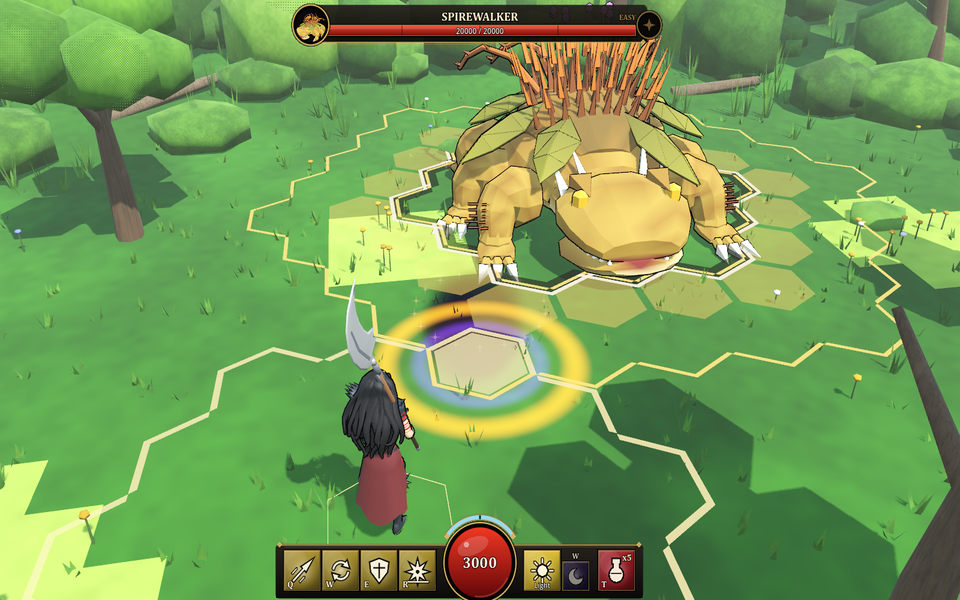
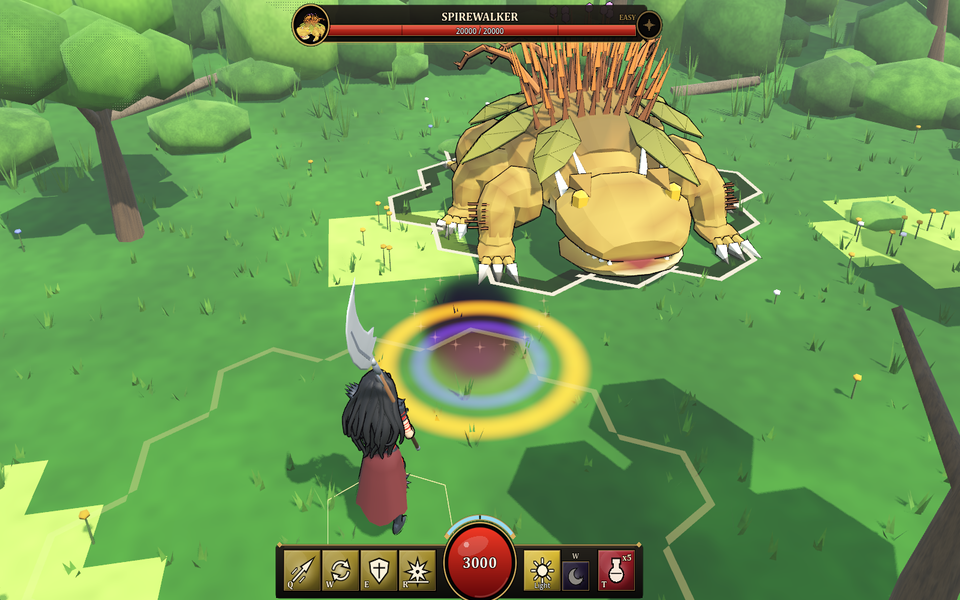
Lane EL: Thunder per-water term 1.0 -> 0.5 (H370), measured sim (design/elements/sim.md), renders on merged dev, leap splash in its own action
Claude-Session: https://claude.ai/code/session_01TkDAFjAZfbyuVMBwWarbCq

diff --git a/design/elements/sim.md b/design/elements/sim.md
@@ -1,0 +1,97 @@
+# Element pass: the sim, before and after (Lane EL, H360-H375)
+
+**What was run.** `tools/element_sim.gd` (extends Lane D's `difficulty_baseline.gd`): the same seeded solo bot (attack, cast r / q / e on cooldown, step out of a telegraph about to land, drink under 40%) plus one habit, so it uses BOTH elements: it lays its active element for 3 landed basics, swaps (W), cashes in with the backup for 3, and so on. All 21 element pairs (the axis element active: fire/thunder lays fire and detonates with thunder) x the four monsters on their biomes x lance / bow / daggers x EASY and NORMAL x seeds 1-4, 240 s cap: 2016 fights per run. Deterministic; reproduce with
+
+```
+godot --headless --path . --script res://tools/element_sim.gd -- --pairs fire/water,... --monsters swampfang --seeds 4 --json out.json
+godot --headless --path . --script res://tools/element_sim.gd -- --merge after.json,... --before before.json,... --md design/elements/sim.md
+```
+
+**Runs.**
+- BEFORE: `dev` at 455e2ef (the old rules: Douse, Glaze, Gale, Overfreeze, Fuse x3/point).
+- AFTER-1: this lane's rules, Thunder unchanged.
+- AFTER-2: + Thunder `det_mult_per_point` 3.0 -> 2.5.
+- FINAL (the tables below): + `det_mult_per_water` 1.0 -> 0.5, on this lane MERGED with dev at 3ca3285. That dev also brought Lane P's push-out damage and leap splash (H271-H279), which hurt the bot (it stands where monsters land): FINAL's win rates are not purely this lane's doing. AFTER-1 / AFTER-2 are pre-merge.
+
+**How to read it.** A simple bot, not a person: the numbers compare pairs and cash-ins for the same player. NORMAL equals EASY fight for fight (nothing is gated on a tier, H368). "Cash-in share" = the share of the damage the monster took that came from each reaction (the reaction event's strongest cause); weapon blows and ground damage make up the rest. BEFORE's "shatter" column is the old Overfreeze.
+
+## The Thunder retune (spec 2.4)
+
+Median fight length (s) and Detonate's share of the damage, thunder pairs against the other operators' pairs with the same axis partner:
+
+| Partner | thunder: BEFORE / AFTER-1 / AFTER-2 / FINAL | Detonate share B / 1 / 2 / F | ice: B / 1 / 2 / F | wind: B / 1 / 2 / F |
+|---|---|---|---|---|
+| fire | 32.2 / 31.9 / 34.4 / 34.3 | 59 / 56 / 51 / 49 % | 54.3 / 36.3 / 36.8 / 38.5 | 43.4 / 47.9 / 47.9 / 48.1 |
+| water | 34.4 / 31.9 / 32.4 / 33.5 | 73 / 66 / 63 / 59 % | 30.0 / 39.2 / 39.2 / 40.9 | 91.3 / 50.4 / 50.4 / 51.0 |
+| light | 42.9 / 42.3 / 46.4 / 48.0 | 69 / 60 / 56 / 57 % | 195.6 / 52.6 / 52.6 / 51.8 | 240 (0 wins) / 60.3 / 60.3 / 58.9 |
+| dark | 36.5 / 33.9 / 36.3 / 36.0 | 68 / 59 / 55 / 54 % | 81.8 / 35.9 / 35.9 / 41.6 | 72.7 / 46.0 / 46.0 / 47.4 |
+
+Read: before, a thunder pair was the only fast way to play (every non-thunder operator pair but water/ice was 1.5-6x slower, light/wind never won). After, Shatter's share in ice pairs (48-54%) matches Detonate's in thunder pairs (49-59%), every axis pair has its own tier-3 or eruption payoff, and fire/dark, water/dark, fire/water are as fast as the thunder pairs. Thunder pairs are still the quickest by 5-20% on fire / water / dark (water/thunder most), and the wind pairs are the slowest operator (the bot never aims a Swirl; it fires it with basics on the hull's edge). Further Thunder cuts are the author's call after play (L-47).
+
+BEFORE: 2016 fights: 21 pairs x colambros/rimeslithe/spirewalker/swampfang x lance/bow/daggers x tiers easy/normal, seeds 1-4, 240 s cap (timeout = not a win).
+
+AFTER: 2016 fights: 21 pairs x colambros/rimeslithe/spirewalker/swampfang x lance/bow/daggers x tiers easy/normal, seeds 1-4, 240 s cap (timeout = not a win).
+
+Cells: win rate (wins/fights) | median fight length | median length of the wins.
+
+### Per tier
+
+| Tier | Before | After |
+|---|---|---|
+| easy | 77% (774/1008) | 63.3 s | 54.5 s | 93% (935/1008) | 46.2 s | 46.3 s |
+| normal | 77% (774/1008) | 63.3 s | 54.5 s | 93% (935/1008) | 46.2 s | 46.3 s |
+
+### Per tier and monster
+
+| Monster | Tier | Before | After |
+|---|---|---|---|
+| colambros | easy | 73% (184/252) | 57.2 s | 49.6 s | 82% (207/252) | 47.2 s | 49.0 s |
+| colambros | normal | 73% (184/252) | 57.2 s | 49.6 s | 82% (207/252) | 47.2 s | 49.0 s |
+| rimeslithe | easy | 86% (216/252) | 65.2 s | 52.1 s | 98% (246/252) | 41.9 s | 40.6 s |
+| rimeslithe | normal | 86% (216/252) | 65.2 s | 52.1 s | 98% (246/252) | 41.9 s | 40.6 s |
+| spirewalker | easy | 75% (190/252) | 74.7 s | 55.5 s | 94% (236/252) | 41.7 s | 41.5 s |
+| spirewalker | normal | 75% (190/252) | 74.7 s | 55.5 s | 94% (236/252) | 41.7 s | 41.5 s |
+| swampfang | easy | 73% (184/252) | 69.8 s | 56.0 s | 98% (246/252) | 50.5 s | 50.5 s |
+| swampfang | normal | 73% (184/252) | 69.8 s | 56.0 s | 98% (246/252) | 50.5 s | 50.5 s |
+
+### Per element pair (all monsters, weapons, tiers)
+
+| Pair | Before | After | Cash-in share before | Cash-in share after |
+|---|---|---|---|---|
+| fire/water | 88% (84/96) | 66.0 s | 64.0 s | 96% (92/96) | 39.1 s | 39.3 s | overheat 21% | detonate 3%, shatter 3%, overheat 11%, geyser 8%, flux 1%, steam 35% |
+| fire/light | 81% (78/96) | 65.8 s | 61.7 s | 96% (92/96) | 53.4 s | 53.4 s | overheat 35% | detonate 1%, shatter 5%, overheat 25%, glint 18%, flux 1%, steam 1%, eclipse 4% |
+| fire/dark | 94% (90/96) | 45.0 s | 45.1 s | 100% (96/96) | 36.5 s | 36.5 s | overheat 35% | detonate 2%, shatter 5%, overheat 24%, flux 24%, steam 1% |
+| fire/thunder | 100% (96/96) | 32.2 s | 32.2 s | 92% (88/96) | 34.3 s | 34.3 s | detonate 59%, overheat 7% | detonate 49%, shatter 2%, overheat 11%, flux 1%, steam 1% |
+| fire/ice | 92% (88/96) | 54.3 s | 54.0 s | 94% (90/96) | 38.5 s | 39.0 s | shatter 5%, overheat 24% | detonate 1%, shatter 48%, overheat 10%, flux 1%, steam 1% |
+| fire/wind | 96% (92/96) | 43.4 s | 43.4 s | 96% (92/96) | 48.1 s | 48.3 s | overheat 34% | detonate 2%, shatter 3%, swirl 29%, overheat 17%, flux 1%, steam 2% |
+| water/light | 25% (24/96) | 240.0 s | 130.6 s | 77% (74/96) | 78.6 s | 67.8 s | - | detonate 2%, shatter 9%, overheat 1%, geyser 25%, glint 24%, flux 1%, steam 3%, eclipse 3% |
+| water/dark | 63% (60/96) | 78.9 s | 92.2 s | 92% (88/96) | 38.1 s | 38.0 s | - | detonate 3%, shatter 5%, geyser 26%, flux 27%, steam 1% |
+| water/thunder | 100% (96/96) | 34.4 s | 34.4 s | 94% (90/96) | 33.5 s | 33.5 s | detonate 73% | detonate 59%, shatter 2%, geyser 9% |
+| water/ice | 100% (96/96) | 30.0 s | 30.0 s | 96% (92/96) | 40.9 s | 40.9 s | shatter 73% | detonate 1%, shatter 53%, geyser 12%, flux 1% |
+| water/wind | 69% (66/96) | 91.3 s | 97.8 s | 92% (88/96) | 51.0 s | 51.2 s | - | detonate 2%, shatter 3%, swirl 30%, geyser 19%, flux 1%, steam 1% |
+| light/dark | 52% (50/96) | 149.6 s | 142.1 s | 92% (88/96) | 47.0 s | 46.6 s | - | detonate 2%, shatter 3%, geyser 1%, glint 9%, flux 11%, eclipse 39% |
+| light/thunder | 100% (96/96) | 42.9 s | 42.9 s | 96% (92/96) | 48.0 s | 49.5 s | detonate 69% | detonate 57%, shatter 2%, glint 8%, flux 1%, eclipse 2% |
+| light/ice | 31% (30/96) | 195.6 s | 153.0 s | 98% (94/96) | 51.8 s | 52.2 s | shatter 12% | detonate 1%, shatter 54%, glint 11%, flux 1%, eclipse 2% |
+| light/wind | 0% (0/96) | 240.0 s | - | 94% (90/96) | 58.9 s | 59.3 s | overheat 1% | detonate 2%, shatter 4%, swirl 30%, geyser 1%, glint 16%, flux 1%, eclipse 3% |
+| dark/thunder | 100% (96/96) | 36.5 s | 36.5 s | 96% (92/96) | 36.0 s | 36.0 s | detonate 68% | detonate 54%, shatter 2%, flux 13% |
+| dark/ice | 79% (76/96) | 81.8 s | 84.4 s | 92% (88/96) | 41.6 s | 41.6 s | shatter 10% | detonate 1%, shatter 53%, flux 12% |
+| dark/wind | 69% (66/96) | 72.7 s | 82.0 s | 96% (92/96) | 47.4 s | 47.8 s | - | detonate 2%, shatter 4%, swirl 31%, flux 21% |
+| thunder/ice | 98% (94/96) | 59.4 s | 59.3 s | 88% (84/96) | 66.5 s | 68.3 s | detonate 37%, shatter 6% | detonate 19%, shatter 18%, flux 1% |
+| thunder/wind | 96% (92/96) | 63.9 s | 63.9 s | 88% (84/96) | 68.4 s | 69.8 s | detonate 38% | detonate 22%, shatter 1%, swirl 10%, flux 1% |
+| ice/wind | 81% (78/96) | 83.5 s | 82.1 s | 88% (84/96) | 73.1 s | 75.8 s | shatter 15% | shatter 22%, swirl 10%, flux 2% |
+
+### Damage share by column, every fight
+
+| Column | Before | After |
+|---|---|---|
+| weapon | 63% | 36% |
+| ground | 10% | 4% |
+| detonate | 14% | 12% |
+| shatter | 5% | 14% |
+| swirl | - | 6% |
+| overheat | 7% | 5% |
+| geyser | - | 6% |
+| glint | - | 7% |
+| flux | - | 5% |
+| steam | - | 2% |
+| eclipse | - | 3% |

diff --git a/DECISIONS-lane-EL.md b/DECISIONS-lane-EL.md
@@ -16,7 +16,7 @@ Tier switch (spec 0.4 and the integrator's note): every rule below runs on EVERY
 | H367 | 2026-10-21 | **Crush.** A monster crushes the crystals its hull steps onto: on every hex step (walk, run, Colambros' charge) the hexes newly inside the hull are checked; a monster that landed from a leap crushes every crystal under its hull. Each crush is one monster-triggered action (H364). A submerged monster (untargetable) passes under them. Monsters never path round crystals. | Claude, decided | Spec 2.2 "crushable by the monster ... the monster walks or charges over it". | current |
 | H368 | 2026-10-21 | **No tier gate.** Sections 2-3 are THE element rules: every rule above runs on every tier; EASY keeps nothing of the old element rules. The old reactions were player-side rules, keeping them on EASY would have doubled the rules for little, and H267 re-calibrates EASY's damage after this pass anyway. `test_difficulty`'s "NORMAL plays like EASY today" still holds. | Claude, overturn freely | The integrator's principle for spec 0.4. | current |
 | H369 | 2026-10-21 | **Hooks for sections 7-8** (monster behaviour, next lanes). `sim.react_at(hexes, trigger, mode)`: one contained monster-triggered action over a radius; "detonate" blasts every charged hex as if thunder hit it and shatters every crystal, "shatter" crystals only, "quench" clears everything with no reaction (event `quench`). `sim.first_crystal(line)` / `sim.crystal_at(hex)`: a sweep beam stops at the first crystal. `sim.shatter_as(hexes, trigger)`, `sim.resolve_ground(r, trigger)`, `sim.reaction_hit(...)` (the monster-triggered entry point), `HHCharge.detonate_at / shatter_at / quench`. | Claude, decided | Asked for by the brief. | current |
-| H370 | 2026-10-21 | **Thunder retune** (spec 2.4): THUNDER_ROW | Claude, overturn freely | THUNDER_WHY | current |
+| H370 | 2026-10-21 | **Thunder retune** (spec 2.4; supersedes in part H50's Fuse numbers), measured last with H371's harness: `det_mult_per_point` 3.0 -> 2.5 and `det_mult_per_water` 1.0 -> 0.5; `det_mult_per_axis` stays 3. Thunder on dark 1 = x2.5 (was x3), dark 3 + fire 3 = x18 (H50's "21x or so"), water 2 + light 1 = x11.5 (was x14). Role unchanged (detonate, conduct through water, fuse markers). Result (design/elements/sim.md, FINAL vs BEFORE): Detonate's share in thunder pairs 59-73% -> 49-59%, against Shatter 48-54% in ice pairs, Swirl 29-31% (plus the bursts it fires) in wind pairs, Steam / Eclipse / Geyser / Flux / Glint 25-40% in axis pairs; thunder pairs' median fight 34.3 / 33.5 / 48.0 / 36.0 s (fire / water / light / dark partner) vs ice 38.5 / 40.9 / 51.8 / 41.6 s and wind 48.1 / 51.0 / 58.9 / 47.4 s. Still the quickest operator by 5-20%: a further cut is the author's call after play. | Claude, overturn freely | Spec 2.4: one cash-in among four, numbers after the other three exist, measured. Two small steps (2.5 per point, then the water term, since water/thunder stayed the fastest pair) rather than a big cut, because the author set H50's multiples himself. AWAITING PLAY (L-47). | current |
 | H371 | 2026-10-21 | **The element harness** `tools/element_sim.gd` (extends Lane D's `difficulty_baseline.gd`): the same seeded solo bot plus one habit, lay the active element for 3 landed basics then swap (W) and cash in with the backup for 3; per element pair (all 21, the axis element active), x 4 monsters on their biomes x 3 weapons x EASY / NORMAL x 4 seeds, 240 s cap; the monster's damage split by cash-in (weapon, ground, detonate, shatter, swirl, overheat, geyser, glint, flux, steam, eclipse). BEFORE = dev at 455e2ef, AFTER = this lane. Results in `design/elements/sim.md`. | Claude, decided | The brief: measure per pair, thunder pairs and the new cash-ins included, before and after. Lane D's bot never swaps, so it never cashed anything in with its backup. | current |
 | H372 | 2026-10-21 | **View.** `HHReactionFx` (`src/game/fx/reaction_fx.gd`, a child of the arena view beside the hull): crystals are pooled hex prisms (an ice shell whose height is the ice level 0.7 / 1.05 / 1.4 m, a core tinted by the stored element whose height is its tier; the ground under it frosts with the glaze shader and its standing flames / beams / tendrils hide); one-shots on two sprite systems (240 additive, 140 alpha) and the fx layer's rings and flashes: shatter (shards + rings), swirl (an inward vortex over the pull radius, the pulled charge streaking in), overheat (embers up), geyser (a white spray column ~4 m), glint (a gold shaft + star sparks), flux (violet motes spiralling in over dark smoke), steam (a white plume 3-5 m), eclipse (a gold and a violet ring collapsing), crystal (a frost puff). Compatibility-safe (StandardMaterial3D, the existing particle shader). Sounds map to existing uses: shatter = overfreeze's ice crack, crystal = paint:ice, geyser / steam = douse, glint / flux / eclipse = detonate, swirl = gale. Review renders: `tools/element_preview.gd` -> `design/elements/`. | Claude, decided | Reuse the fx language (H700s) and sound set (H356). | current |
 | H373 | 2026-10-21 | **Copy and the one upgrade it touches.** The lobby ticker blurbs per element (`HHRegistry.ELEMENTS`) describe the new rules (H266's picker copy is untouched). Frozen Storm (`arrowstorm_glaze`, H559) now crystallises the charged downfall, so the archer standing in it is pushed out (H366); its blurb says "crystallised". | Claude, decided | The old blurbs described Douse, Glaze and Gale. | current |
@@ -39,6 +39,6 @@ Tier switch (spec 0.4 and the integrator's note): every rule below runs on EVERY
 - **H559** in part: Frozen Storm's ice on charged hexes is a crystal now, not Stasis (H365, H373).
 - **H882** in part: "overfreeze skips allies (overfreeze's slow too)" -> no Overfreeze; allies are skipped by H364.
 
-## LEDGER rows added (LEDGER.md L-40..L-46; L-38 / L-39 left for the parallel Lane P)
+## LEDGER rows added (LEDGER.md L-40..L-47; L-38 / L-39 left free for the parallel lanes)
 
 See LEDGER.md.

diff --git a/LEDGER.md b/LEDGER.md
@@ -63,3 +63,4 @@ States: BLOCKED / OWED / AWAITING PLAY / WATCH / DEFERRED. IDs never change.
 | L-44 | Monster-triggered fractions (H364, DECIDE-C): the monster 25% of the player-cast damage, hunters 20% and never killed by a reaction | AWAITING PLAY | author; F1 `monster_reaction_frac`, `monster_reaction_player_frac` |
 | L-45 | Shatter formula (H365): x2 per stored point + x1 per ice, stagger 0.8, ring half; crystals last 36 s; no special pillar on water 3 | AWAITING PLAY | author plays ice; F1 `shatter_*`, `crystal_ticks` |
 | L-46 | Element pass renders (design/elements/: crystal, swirl before / mid / after, shatter, geyser, steam, eclipse, glint, flux) and the sim (design/elements/sim.md) for review | AWAITING PLAY | author looks |
+| L-47 | Thunder retune (H370): `det_mult_per_point` 3.0 -> 2.5, `det_mult_per_water` 1.0 -> 0.5 (t1 dark x2.5, t3 dark + t3 fire x18, was x21). Measured (design/elements/sim.md): Detonate 49-59% of the damage in thunder pairs vs Shatter 48-54% in ice pairs, but thunder pairs still finish 5-20% faster than ice pairs; wind pairs are the slowest | AWAITING PLAY | author plays thunder and the other three; F1 `det_mult_*` |
